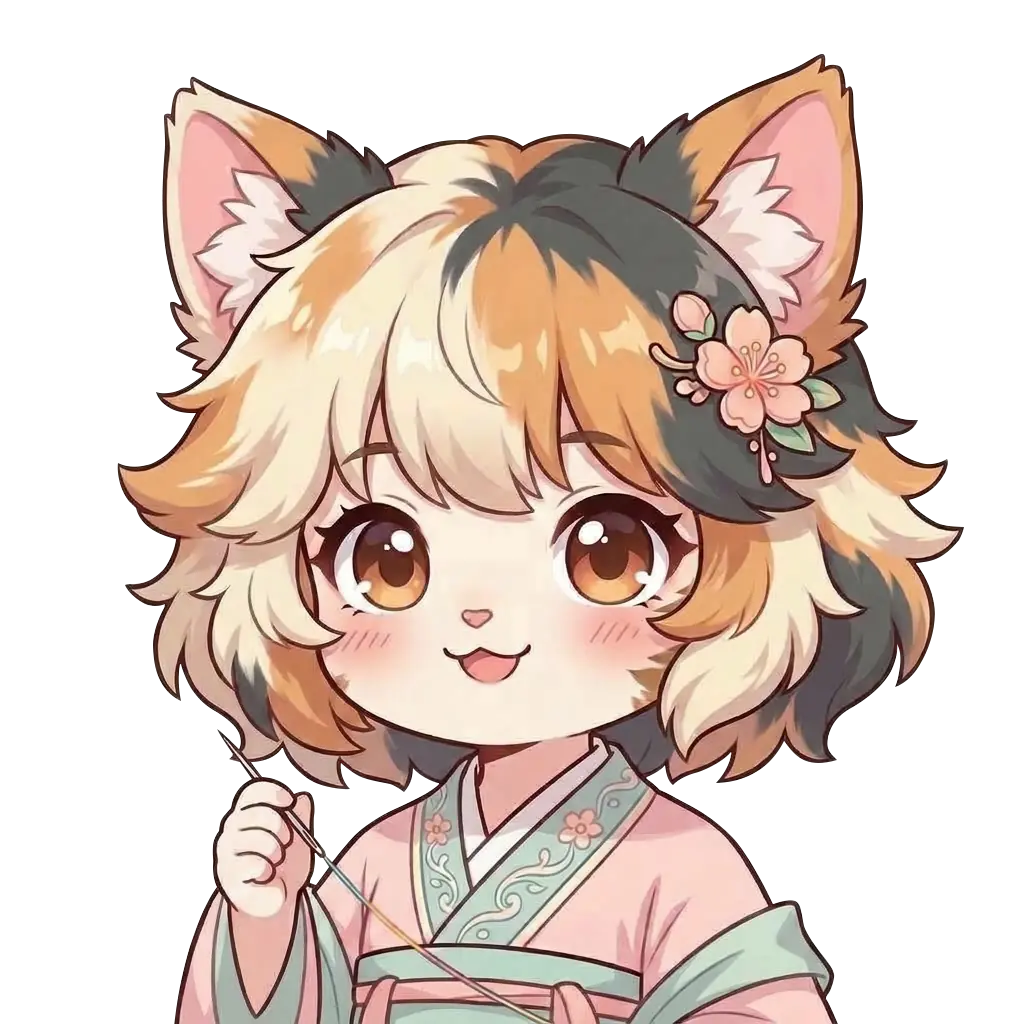
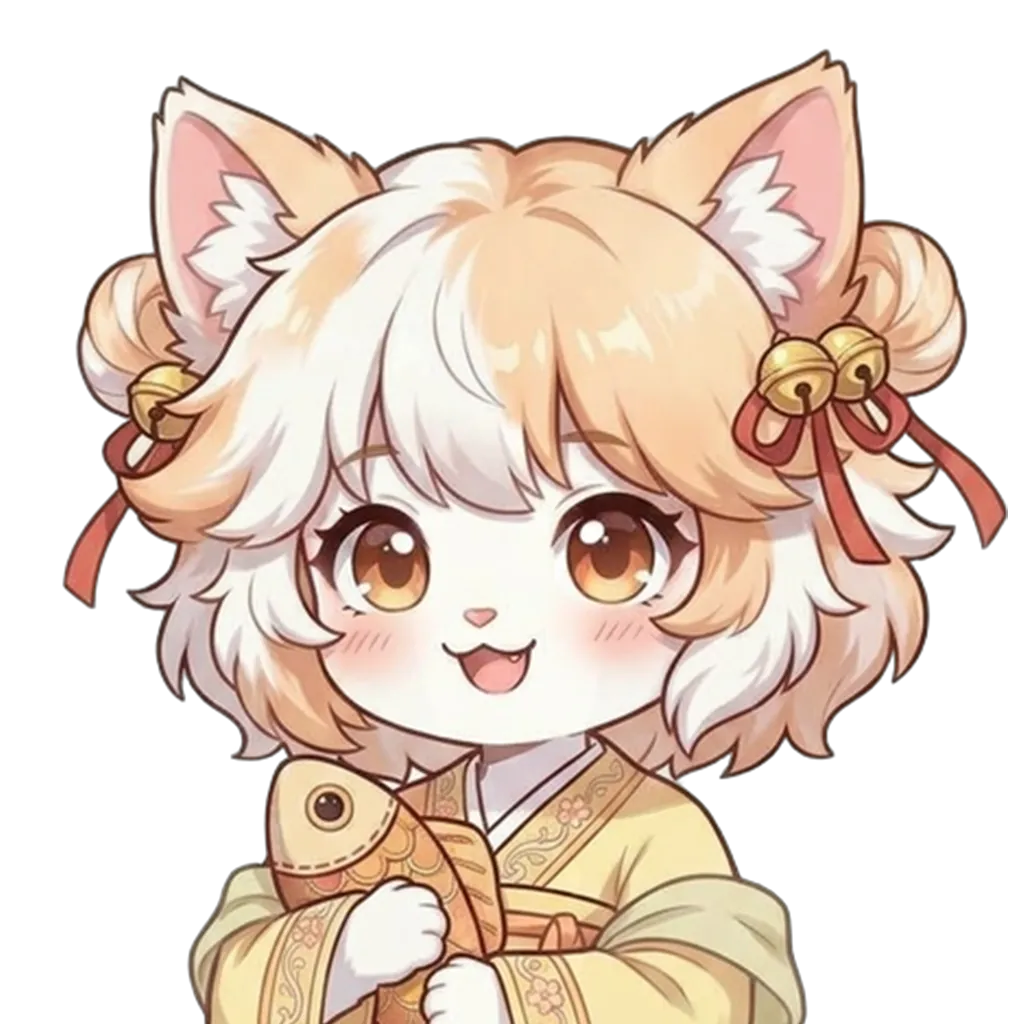
订单上的老板女儿和小桃改用新的半身像
粉衣三花猫留给晴娘。开场漫画的整页小桃不动。

diff --git a/game/src/portraits.ts b/game/src/portraits.ts
@@ -4,9 +4,9 @@ import boatman from './assets/guests/boatman.webp'
 import squire from './assets/guests/squire.webp'
 import fisherman from './assets/guests/fisherman.webp'
 import siamese from './assets/guests/siamese.png'
+import embroider from './assets/guests/embroider.webp'
 import bossDaughter from './assets/guests/bossDaughter.webp'
 import ruyue from './assets/guests/ruyue.png'
-import xiaotao from './assets/guests/xiaotao.png'
 import zhao from './assets/guests/zhao.png'
 import liu from './assets/guests/liu.png'
 import portraitsJson from './data/portraits.json'
@@ -15,15 +15,15 @@ import type { NormBox } from './types'
 export const PORTRAITS: Record<string, string> = {
   teaGuest,
   scholar,
-  /** 晴娘订单立绘用老板女儿的 1024 原画，名字仍是晴娘。 */
-  embroider: bossDaughter,
+  embroider,
   boatman,
   squire,
   fisherman,
   siamese,
+  /** 老板女儿和小桃的订单立绘是同一张半身像。开场漫画用整页，不走这张。 */
   bossDaughter,
   ruyue,
-  xiaotao,
+  xiaotao: bossDaughter,
   zhao,
   liu,
 }

diff --git a/game/tests/orderCard.test.ts b/game/tests/orderCard.test.ts
@@ -150,10 +150,10 @@ describe('订单卡', () => {
     }
     expect(cfg.characters.find((entry) => entry.id === 'embroider')?.name).toBe('晴娘')
     expect(cfg.characters.find((entry) => entry.id === 'embroider')?.portrait).toBe('embroider')
-    expect(PORTRAITS.embroider).toBe(PORTRAITS.bossDaughter)
+    expect(PORTRAITS.embroider).toContain('embroider')
+    expect(PORTRAITS.xiaotao).toBe(PORTRAITS.bossDaughter)
     expect(cfg.characters.find((entry) => entry.id === 'raccoon')?.portrait).toBeUndefined()
     expect(PORTRAITS.ruyue).toContain('ruyue')
-    expect(PORTRAITS.xiaotao).toContain('xiaotao')
     expect(PORTRAITS.zhao).toContain('zhao')
     expect(PORTRAITS.liu).toContain('liu')
     expect(cfg.boardTheme.cellLight).not.toBe(cfg.boardTheme.cellDark)
